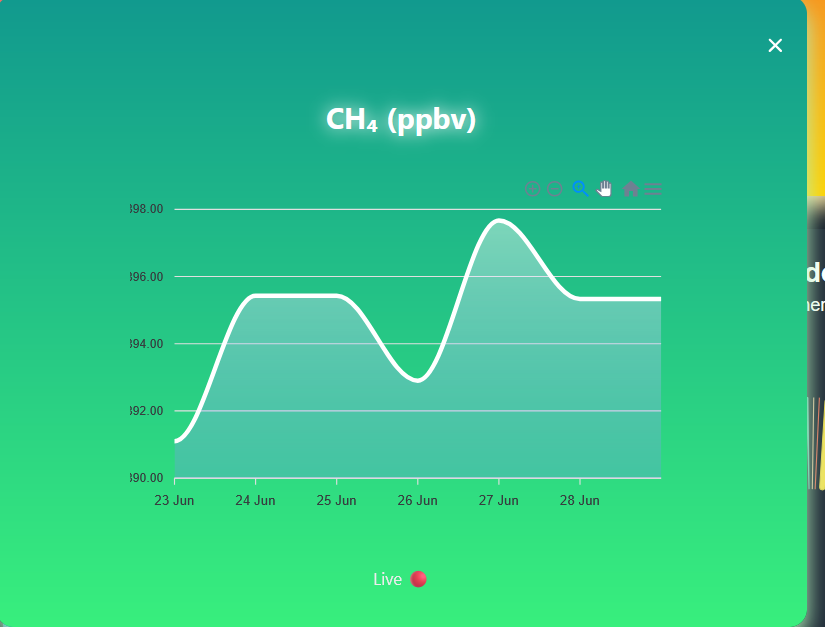
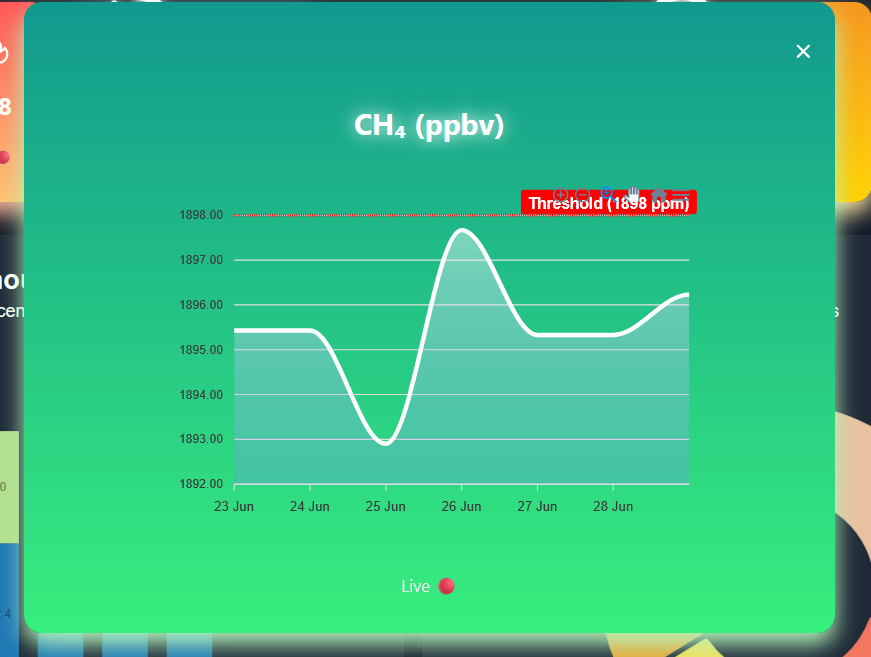
Fixed threshold & added some images

diff --git a/frontend/src/Data/Data2.tsx b/frontend/src/Data/Data2.tsx
@@ -35,7 +35,7 @@ const gasConfig: Record<
 > = {
   CO: {
     title: "CO (mmol/m²)",
-    threshold: 30,
+    threshold: 30.15,
     color: {
       backGround: "linear-gradient(180deg, #ff5858 0%, #ffc371 100%)", // red-orange
       boxShadow: "0px 10px 20px 0px #ffb199",
@@ -44,7 +44,7 @@ const gasConfig: Record<
   },
   NO2: {
     title: "NO₂ (µmol/m²)",
-    threshold: 40,
+    threshold: 18.3,
     color: {
       backGround:
         "linear-gradient(180deg,  #185a9d 0% ,rgb(67, 127, 206) 100%)", // green-blue
@@ -54,7 +54,7 @@ const gasConfig: Record<
   },
   O3: {
     title: "O₃ (µmol/m²)",
-    threshold: 1000000,
+    threshold: 126500,
     color: {
       backGround: "linear-gradient(180deg, #f7971e 0%, #ffd200 100%)", // orange-yellow
       boxShadow: "0px 10px 20px 0px #ffe5a0",
@@ -63,7 +63,7 @@ const gasConfig: Record<
   },
   SO2: {
     title: "SO₂ (µmol/m²)",
-    threshold: 1000,
+    threshold: 219,
     color: {
       backGround: "linear-gradient(180deg, #c471f5 0%, #fa71cd 100%)", // purple-pink
       boxShadow: "0px 10px 20px 0px #e9e4f0",
@@ -72,7 +72,7 @@ const gasConfig: Record<
   },
   CH4: {
     title: "CH₄ (ppbv)",
-    threshold: 3000,
+    threshold: 1898,
     color: {
       backGround: "linear-gradient(180deg, #11998e 0%, #38ef7d 100%)", // teal-green
       boxShadow: "0px 10px 20px 0px #b2f2bb",

diff --git a/frontend/src/Data/Data.tsx b/frontend/src/Data/Data.tsx
@@ -29,7 +29,7 @@ const gasConfig: Record<
 > = {
   CO2: {
     title: "CO2 (mmol/m²)",
-    threshold: 40,
+    threshold: 45,
     color: {
       backGround: "linear-gradient(180deg, #ff5858 0%, #ffc371 100%)", // red-orange
       boxShadow: "0px 10px 20px 0px #ffb199",
@@ -38,7 +38,7 @@ const gasConfig: Record<
   },
   Light: {
     title: "Light (lx)",
-    threshold: 500,
+    threshold: 100,
     color: {
       backGround:
         "linear-gradient(180deg,  #185a9d 0% ,rgb(67, 127, 206) 100%)", // green-blue
@@ -48,7 +48,7 @@ const gasConfig: Record<
   },
   CH4: {
     title: "CH₄ (ppbv)",
-    threshold: 3000,
+    threshold: 2000,
     color: {
       backGround: "linear-gradient(180deg, #11998e 0%, #38ef7d 100%)", // teal-green
       boxShadow: "0px 10px 20px 0px #b2f2bb",

diff --git a/frontend/src/components/Table/Table.tsx b/frontend/src/components/Table/Table.tsx
@@ -76,10 +76,10 @@ export default function BasicTable() {
   // Row data updated with current time
   const rawRows: Omit<RowData, "status">[] = [
     { parameter: "Time (PM)", value: currentTime },
-    { parameter: "Temperature (°C)", value: 50.67 },
+    { parameter: "Temperature (°C)", value: 30 },
     { parameter: "Pressure (hPa)", value: 1008.11 },
     { parameter: "Humidity (%)", value: 57.13 },
-    { parameter: "Longitude (°)", value: 3.054025 },
+    { parameter: "Longitude (°)", value: 10.194025 },
     { parameter: "Latitude (°)", value: 36.740354 },
     { parameter: "Altitude (m)", value: 97.85 },
   ];

diff --git a/frontend/src/pages/Dashboard.tsx b/frontend/src/pages/Dashboard.tsx
@@ -14,10 +14,10 @@ const DashboardContent = () => {
   return (
     <div className="py-20 px-4 sm:px-6 lg:px-8 max-w-7xl mx-auto">
       <div className="text-center mb-16">
-        <h1 className="text-4xl font-bold mb-4">Interactive Dashboard</h1>
+        <h1 className="text-4xl font-bold mb-4">Interactive Dashboard EO/IoT</h1>
         <p className="text-xl text-gray-600 dark:text-gray-300">
           Real-time Monitoring and Visualization of Carbon Emissions Data from
-          IoT and Earth Observation Sources
+          Earth Observation Sources and IoT device 
         </p>
       </div>
 

diff --git a/frontend/src/components/Card/Card.tsx b/frontend/src/components/Card/Card.tsx
@@ -115,8 +115,10 @@ function ExpandedCard({
               background: "#FF0000",
               fontWeight: 700,
               fontSize: "14px",
+              
             },
             text: `Threshold (${param.threshold} ppm)`,
+            
           },
         },
       ],

diff --git a/frontend/src/components/MainDash/MainDash2.tsx b/frontend/src/components/MainDash/MainDash2.tsx
@@ -7,7 +7,7 @@ import "./MainDash.css";
 const MainDash2 = () => {
   return (
     <div className="MainDash">
-      <h1>eo</h1>
+      <h1>EO Data</h1>
       <h1>Real-Time Atmospheric Gas Readings :</h1>
       <Cards />
       <div className="flex items-stretch gap-1">

diff --git a/frontend/src/components/MainDash/MainDash.tsx b/frontend/src/components/MainDash/MainDash.tsx
@@ -4,7 +4,7 @@ import "./MainDash.css";
 const MainDash = () => {
   return (
     <div className="MainDash">
-      <h1>iot</h1>
+      <h1>IoT Data</h1>
       <h1>Real-Time Atmospheric Readings :</h1>
       <Cards />
       <div className="mapContainer">

diff --git a/README.md b/README.md
@@ -118,6 +118,9 @@ The frontend provides a user-friendly interface featuring a data dashboard, AI-p
   - Each backend service is accessed by the frontend through Django REST Framework (DRF), which manages JSON requests and responses. This enables the frontend to retrieve data and computations seamlessly, ensuring a user-friendly and intuitive experience.
 ### SignIn & SignUp page:
   - the user can only use the Services if he has an account.
+
+  ![Alt text](images/Dashboard/SignUp.png)
+
 ### Interactive Dashboard page:
   - The dashboard features two gas emission services, EO and IoT, which users can switch between using the integrated button on the page.
 
@@ -131,8 +134,17 @@ The frontend provides a user-friendly interface featuring a data dashboard, AI-p
     <img src="images/Dashboard/NO2_Card.png" alt="Image 1" width="200"/>
     <img src="images/Dashboard/CH4_Card.png" alt="Image 2" width="200"/>
     <img src="images/Dashboard/O3_Card.png" alt="Image 3" width="200"/>
+    <img src="images/Dashboard/CO_Card.png" alt="Image 4" width="200"/>
   </p>
-  
+
+  - Pie Chart to display the concentration of each gas together
+
+  ![Alt text](images/Dashboard/PIE_Chart.png)
+
+  - Line Chart to display some gas concentration in the past years
+
+  ![Alt text](images/Dashboard/Line_Chart.png)
+
   #### IoT Data: 
   - There are 3 cards containing (CO2, Light, CH4) each card is clickable to expand and see the average concentration.
   <p align="center">
